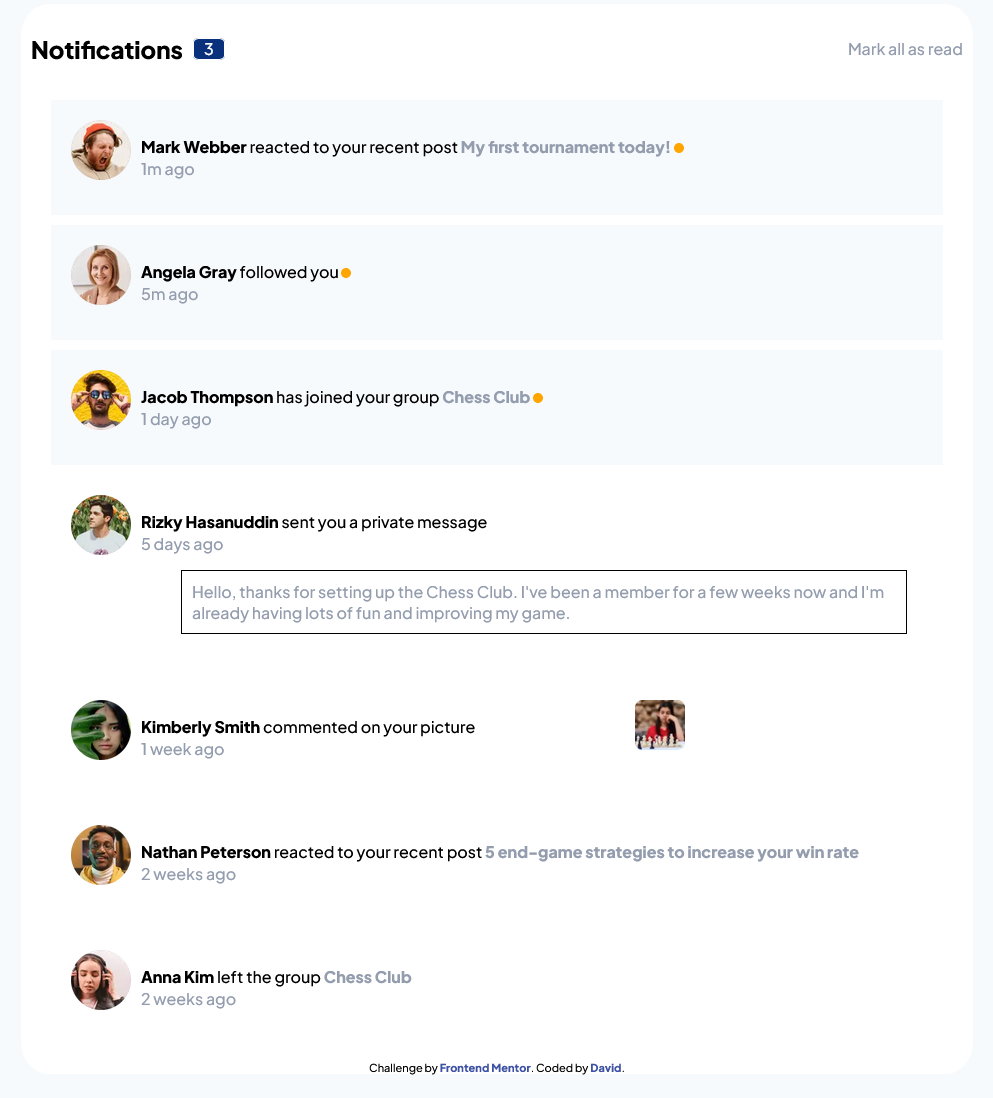
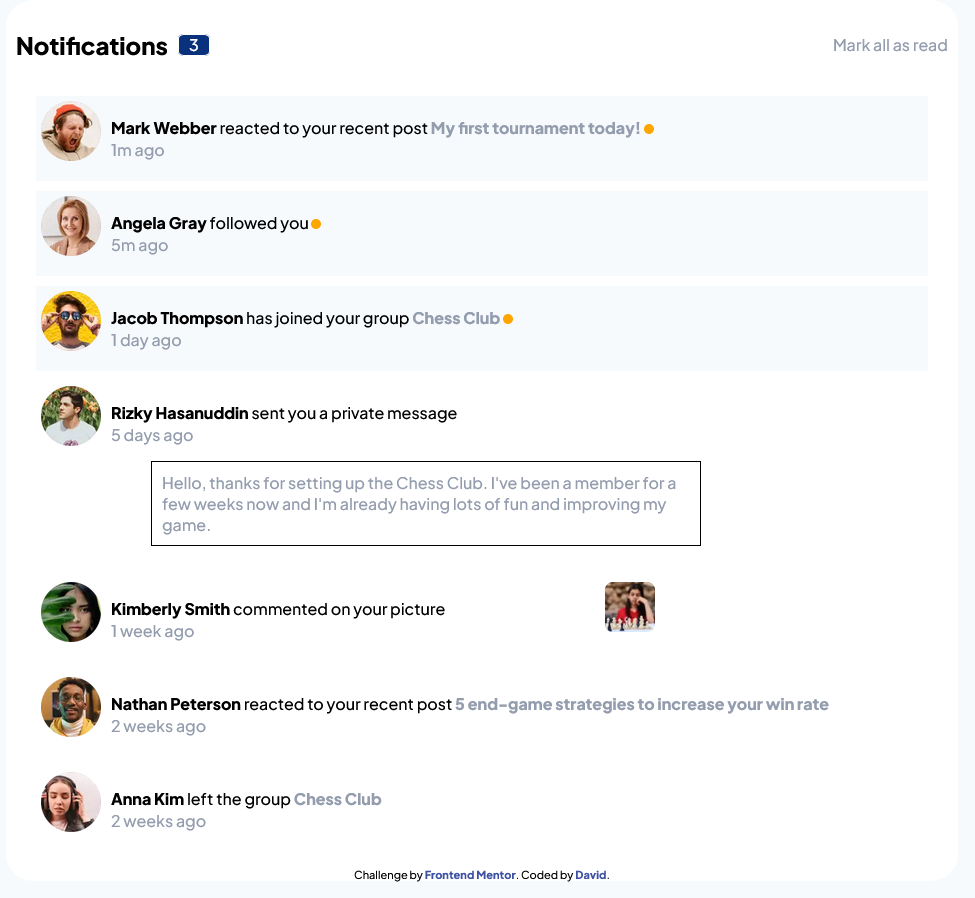
last adjustment i promise

diff --git a/styles.css b/styles.css
@@ -66,7 +66,7 @@ ul {
 li {
   background-color: white;
   margin: 10px;
-  padding: 10px;
+  padding: 5px;
   display: flex;
 }
 
@@ -128,7 +128,7 @@ p a:nth-child(2):hover {
 a > blockquote {
   color: hsl(219, 14%, 63%);
   font-weight: normal;
-  width: 50%;
+  width: 65%;
 }
 
 blockquote:hover {
@@ -164,7 +164,7 @@ blockquote:hover {
   }
 
   a > blockquote {
-    width: 100%;
+    width: 90%;
     margin-left: 0px;
   }
 
